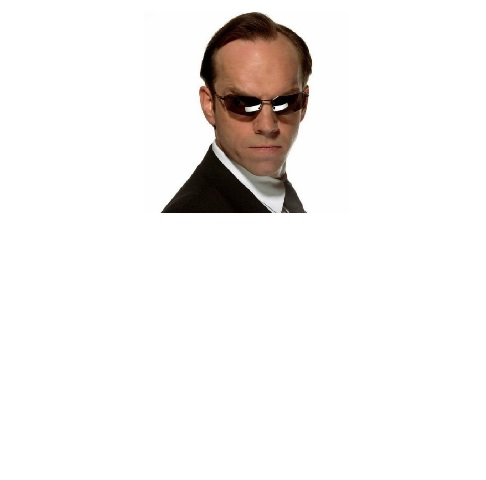
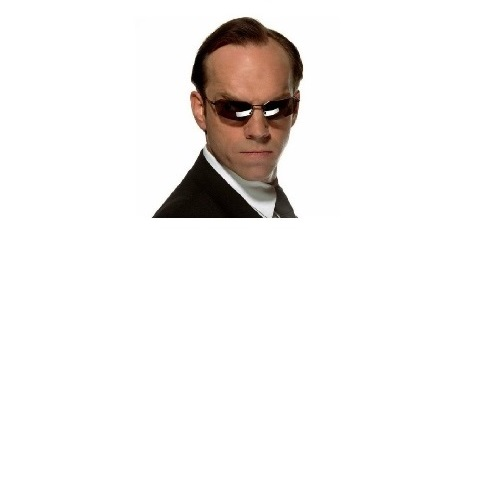
It works! (smulk)

Changed region(s): [[0.3086, 0.0, 0.6481, 0.4688]]

diff --git a/OpenCV_HDR.cpp b/OpenCV_HDR.cpp
@@ -86,7 +86,8 @@ Mat mix(const Mat& src1, const Mat& src2, const Mat& mask)
 				const curType u1 = src11.at<curType>(y, x);
 				const curType u2 = src22.at<curType>(y, x);
 				const curType m = mask1.at<curType>(y, x);
-				curType uk = (curType)((u1 * (maxPixel - m) + u2 * m) / maxPixel);
+				curType uk = (curType)((u1 * (maxPixel - m) + u2 * m) / (maxPixel));
+				uk = uk > maxPixel ? maxPixel : uk < 0 ? 0 : uk;
 				resChannel.at<curType>(y, x) = uk;
 			}
 
@@ -122,7 +123,7 @@ vector<Mat> mixPyram(const vector<Mat> mass1, const vector<Mat> mass2, const vec
 	assert(mass1.size() == mass2.size() && mass2.size() == mask.size());
 	
 	vector<Mat> res;
-	for (int i = 0; i < mass1.size()-1; i++)
+	for (int i = 0; i < mass1.size(); i++)
 		res.push_back(mix(mass1[i], mass2[i], mask[i]));
 	return res;
 }
@@ -185,6 +186,18 @@ bool test_Pyram(Mat src)
 	return myCompareMat(src, laplasPyramInverse(laplasPyram(src,5))[4]);
 }
 
+void preprocessSmith(Mat& im)
+{
+	vector<Mat> mass;
+	split(im, mass);
+
+	mass[1] = mass[2]/2;
+
+	merge(mass, im);
+}
+
+
+
 int main()
 {
 	Mat im11 = imread("../../../img/hulk1.jpg", IMREAD_COLOR);
@@ -197,6 +210,9 @@ int main()
 	}
 	
 	Mat im22 = imread("../../../img/smith1.jpg", IMREAD_COLOR);
+	//preprocessSmith(im22);
+
+
 	if (im22.empty())
 	{
 		cout << "Can't read image" << endl;
@@ -205,7 +221,7 @@ int main()
 		exit(0);
 	}
 
-	Mat mask1 = imread("../../../img/mask_sh1.jpg", IMREAD_COLOR);
+	Mat mask1 = imread("../../../img/mask_sh3.jpg", IMREAD_COLOR);
 	if (mask1.empty())
 	{
 		cout << "Can't read image" << endl;
@@ -222,7 +238,7 @@ int main()
 	im2 = toFloat(im22);
 	mask = toFloat(mask1);
 
-	imshow("test_laplas", laplasPyramInverse(laplasPyram(im1,5))[4]);
+	//  imshow("test_laplas", laplasPyramInverse(laplasPyram(im1,5))[4]);
 
 	printMinMax(im1);
 	printMinMax(im2);
@@ -244,7 +260,12 @@ int main()
 	Mat res2 = Mat((res - minB) / (maxB - minB));
 
 	imshow("res",res);
-
+	Mat saver;
+	cvtColor(res, saver, CV_8U);
+	printMinMax(saver);
+	normalize(saver,saver,0,255, NORM_MINMAX, CV_8U);
+	printMinMax(saver);
+	imwrite("../../../img/smulk1.jpg", saver);
 	waitKey();
 	system("pause");
 	return 0;
